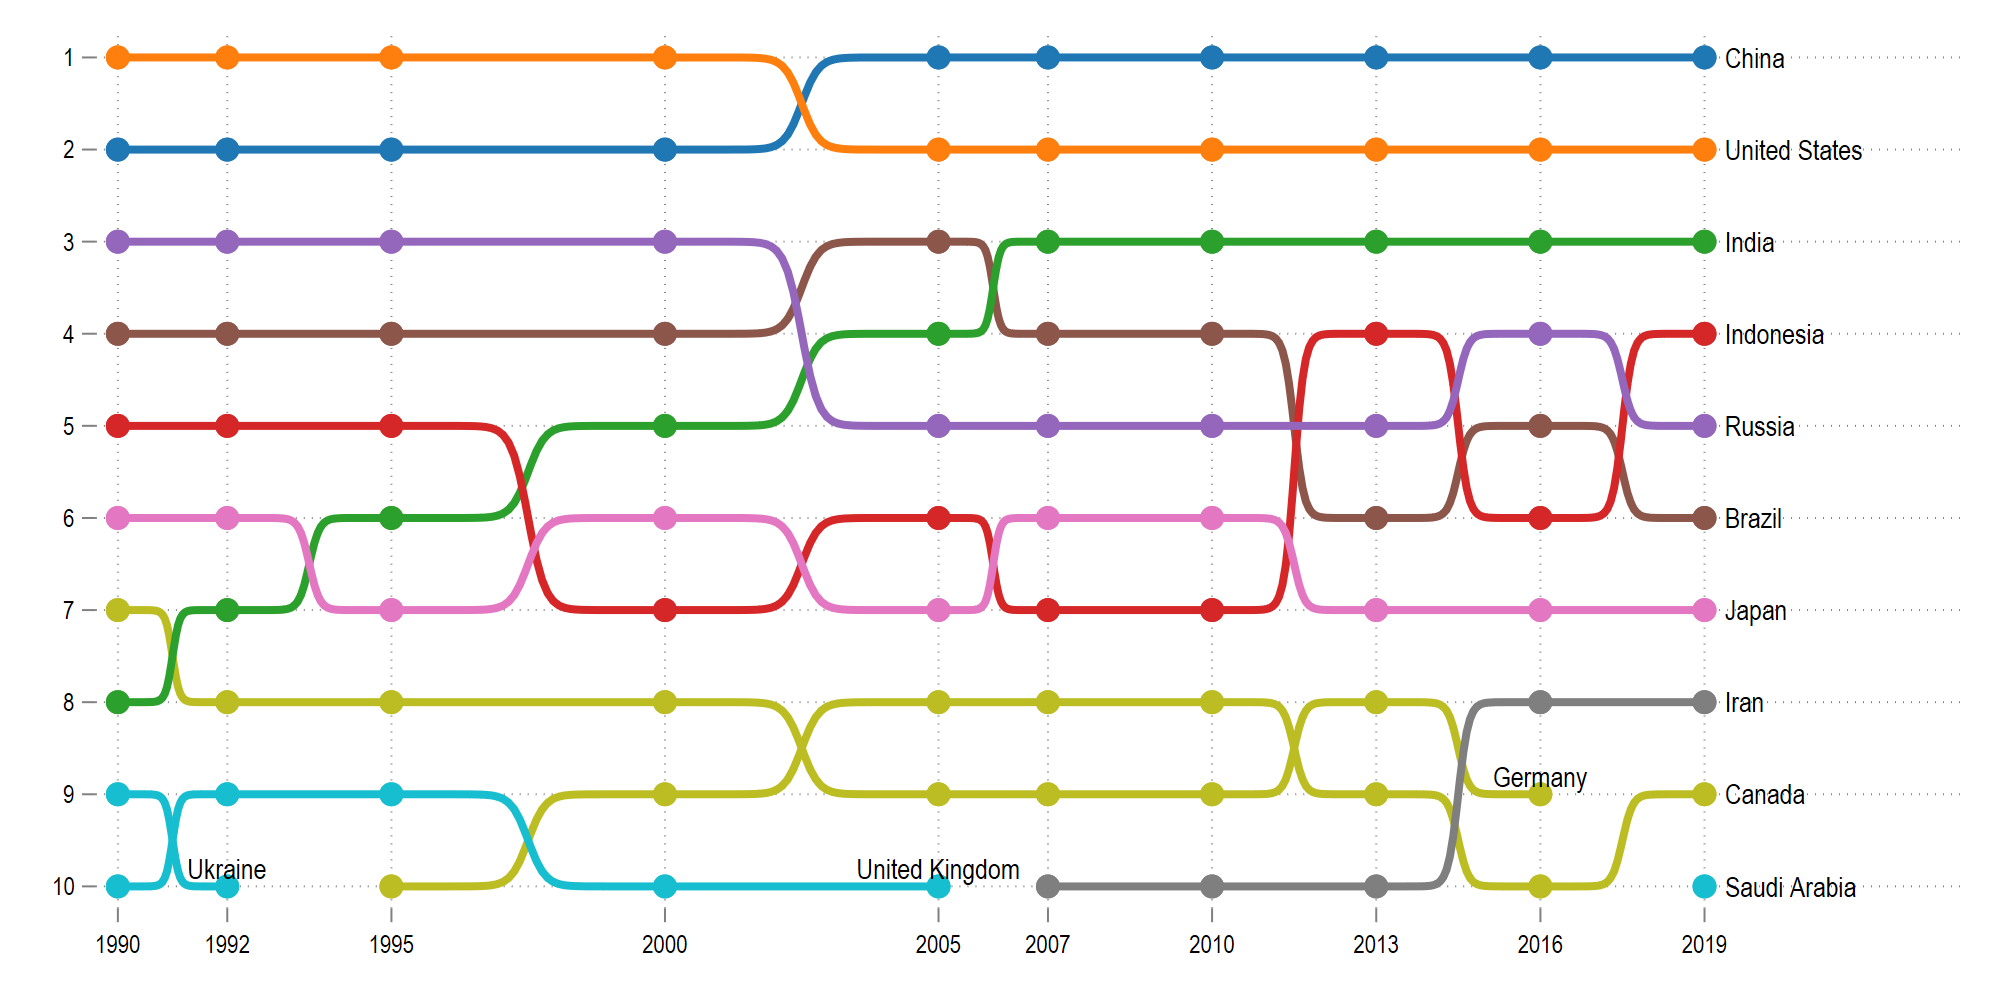
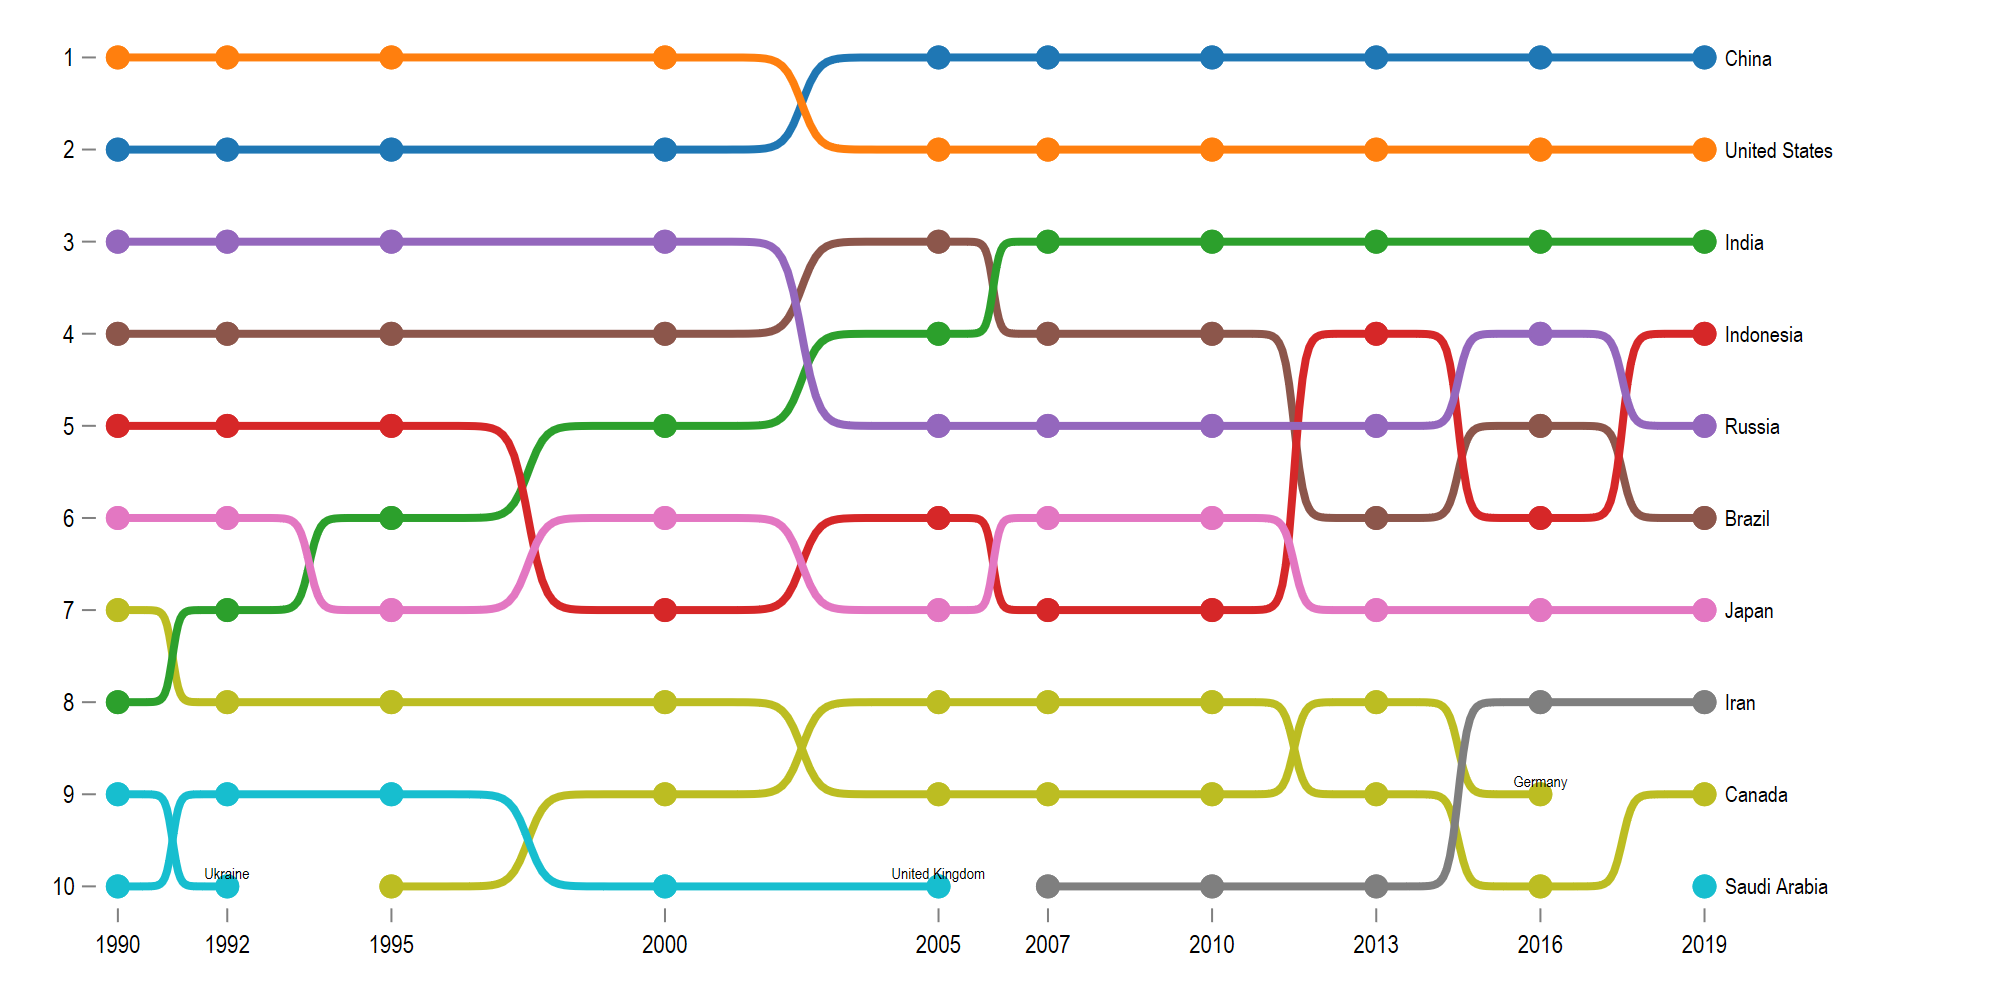
v1.1

diff --git a/README.md b/README.md
@@ -1,4 +1,3 @@
-
 ![StataMin](https://img.shields.io/badge/stata-2015-blue) ![issues](https://img.shields.io/github/issues/asjadnaqvi/stata-bumpline) ![license](https://img.shields.io/github/license/asjadnaqvi/stata-bumpline) ![Stars](https://img.shields.io/github/stars/asjadnaqvi/stata-bumpline) ![version](https://img.shields.io/github/v/release/asjadnaqvi/stata-bumpline) ![release](https://img.shields.io/github/release-date/asjadnaqvi/stata-bumpline)
 
 ---
@@ -7,7 +6,7 @@
 
 ---
 
-# bumpline v1.0
+# bumpline v1.1
 
 ## Installation
 
@@ -19,7 +18,7 @@ SSC (**v1.0**):
 ssc install bumpline, replace
 ```
 
-GitHub (**v1.0**):
+GitHub (**v1.1**):
 
 ```
 net install bumpline, from("https://raw.githubusercontent.com/asjadnaqvi/stata-bumpline/main/installation/") replace
@@ -54,13 +53,13 @@ graph set window fontface "Arial Narrow"
 
 ## Syntax
 
-The syntax for **v1.0** is as follows:
+The syntax for **v1.1** is as follows:
 
 ```
 bumpline y x [if] [in], by(varname) 
                 [ top(num) select(any|last) smooth(num) palette(str) labcond(str) offset(num)
                   lwidth(str) labsize(str) xlabsize(str) ylabsize(str) xlabangle(str) 
-                  msymbol(str) msize(str) mlwidth(str)
+                  msymbol(str) msize(str) mlabsize(str) mlwidth(str)
                   xlabel(str) xtitle(str) ytitle(str) title(str) subtitle(str) note(str) 
                   ysize(num) xsize(num) scheme(str) name(str) ]
 
@@ -102,14 +101,14 @@ bumpline total_ghg year, by(country)
 
 
 ```
-bumpline total_ghg year, by(country) ///
+bumpline total_ghg year, by(country) top(10) ///
 	xsize(2) ysize(1) 
 ```
 
 <img src="/figures/bumpline2.png" height="400">
 
 ```
-bumpline total_ghg year, by(country) select(last) ///
+bumpline total_ghg year, by(country) select(last) top(10) ///
 	xsize(2) ysize(1) 
 ```
 
@@ -118,14 +117,14 @@ bumpline total_ghg year, by(country) select(last) ///
 ### Smooth
 
 ```
-bumpline total_ghg year, by(country) ///
+bumpline total_ghg year, by(country) top(10) ///
 	smooth(1) xsize(2) ysize(1) 
 ```
 
 <img src="/figures/bumpline4.png" height="400">
 
 ```
-bumpline total_ghg year, by(country) ///
+bumpline total_ghg year, by(country) top(10) ///
 	smooth(8) xsize(2) ysize(1) 	
 ```
 
@@ -135,14 +134,14 @@ bumpline total_ghg year, by(country) ///
 ### top lists
 
 ```
-bumpline total_ghg year, by(country) ///
+bumpline total_ghg year, by(country) top(10) ///
 	top(15) xsize(2) ysize(1) 	
 ```
 
 <img src="/figures/bumpline6.png" height="400">
 
 ```
-bumpline total_ghg year, by(country) ///
+bumpline total_ghg year, by(country) top(10) ///
 	top(20) xsize(2) ysize(1) 	
 ```
 
@@ -151,7 +150,7 @@ bumpline total_ghg year, by(country) ///
 ### Palettes
 
 ```
-bumpline total_ghg year, by(country) ///
+bumpline total_ghg year, by(country) top(10) ///
 	palette(CET L20) xsize(2) ysize(1) 
 ```
 
@@ -159,14 +158,14 @@ bumpline total_ghg year, by(country) ///
 
 
 ```
-bumpline total_ghg year, by(country) ///
+bumpline total_ghg year, by(country) top(10) ///
 	palette(viridis) xsize(2) ysize(1) 
 ```
 
 <img src="/figures/bumpline9.png" height="400">
 
 ```
-bumpline total_ghg year, by(country) ///
+bumpline total_ghg year, by(country) top(10) ///
 	palette(reds, reverse) xsize(2) ysize(1) 	
 ```
 
@@ -177,14 +176,14 @@ bumpline total_ghg year, by(country) ///
 ### Lines and symbols
 
 ```
-bumpline total_ghg year, by(country) ///
+bumpline total_ghg year, by(country) top(10) ///
 	lw(1.4) xsize(2) ysize(1)
 ```
 
 <img src="/figures/bumpline11.png" height="400">
 
 ```
-bumpline total_ghg year, by(country) ///
+bumpline total_ghg year, by(country) top(10) ///
 	lw(1.2) msym(square) msize(1.3) xsize(2) ysize(1)	
 ```
 
@@ -211,6 +210,13 @@ Please open an [issue](https://github.com/asjadnaqvi/stata-bumpline/issues) to r
 
 
 ## Change log
+
+**v1.1 (28 May 2023)**
+- Fixed `if` and `in` conditions that were not passing correctly.
+- Added checks for duplicates.
+- Removed graph grids.
+- Added `mlabsize()` for smaller labels.
+- Minor code cleanups, updates to defaults, and help file.
 
 **v1.0 (10 Apr 2023)**
 - Public release.
